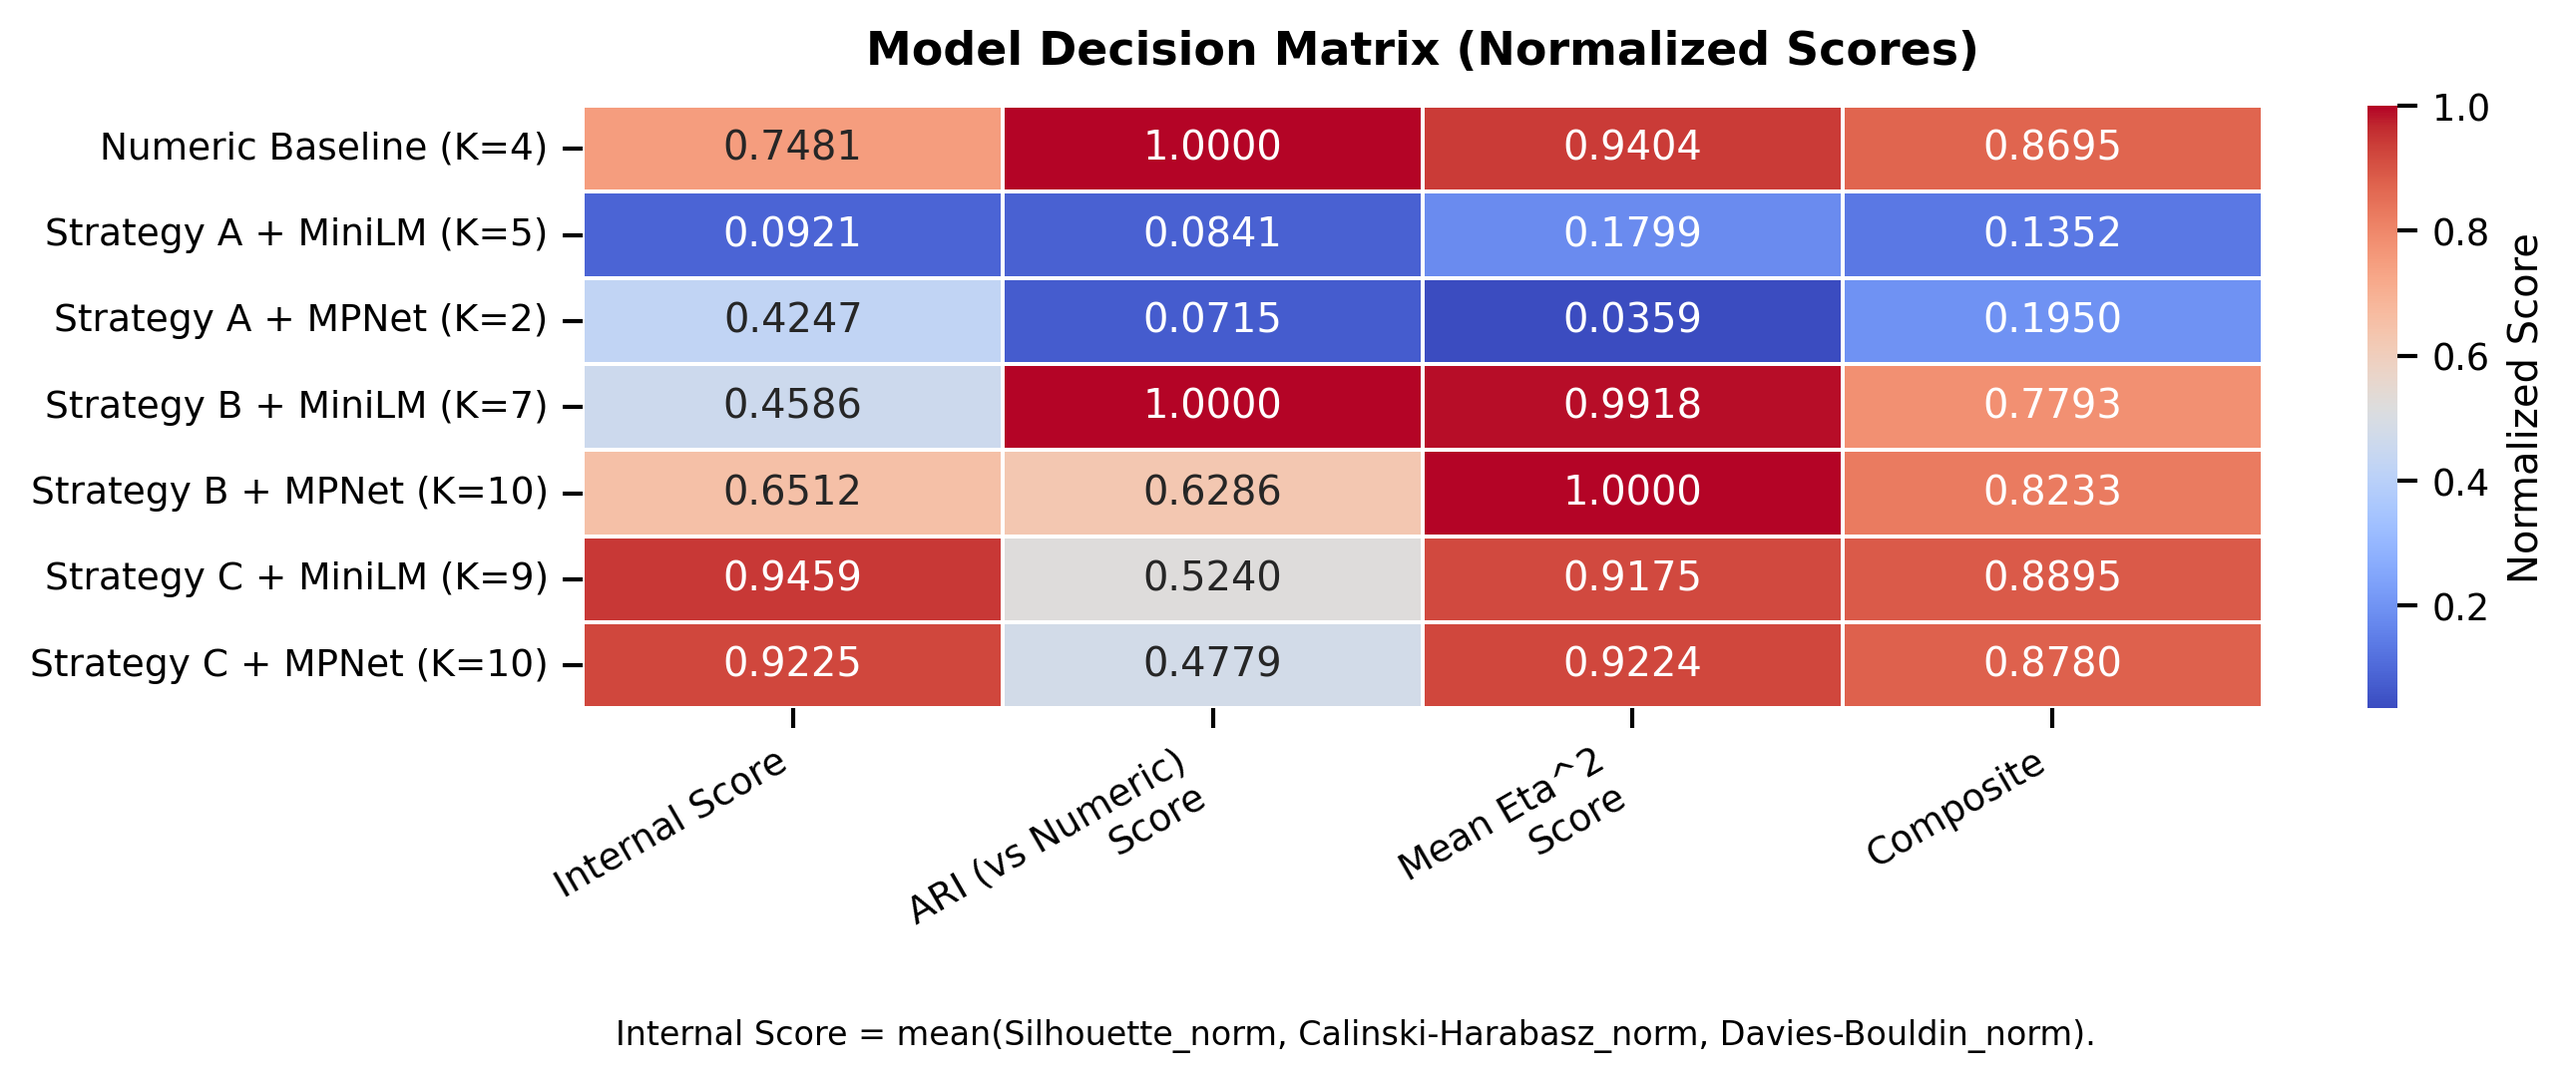
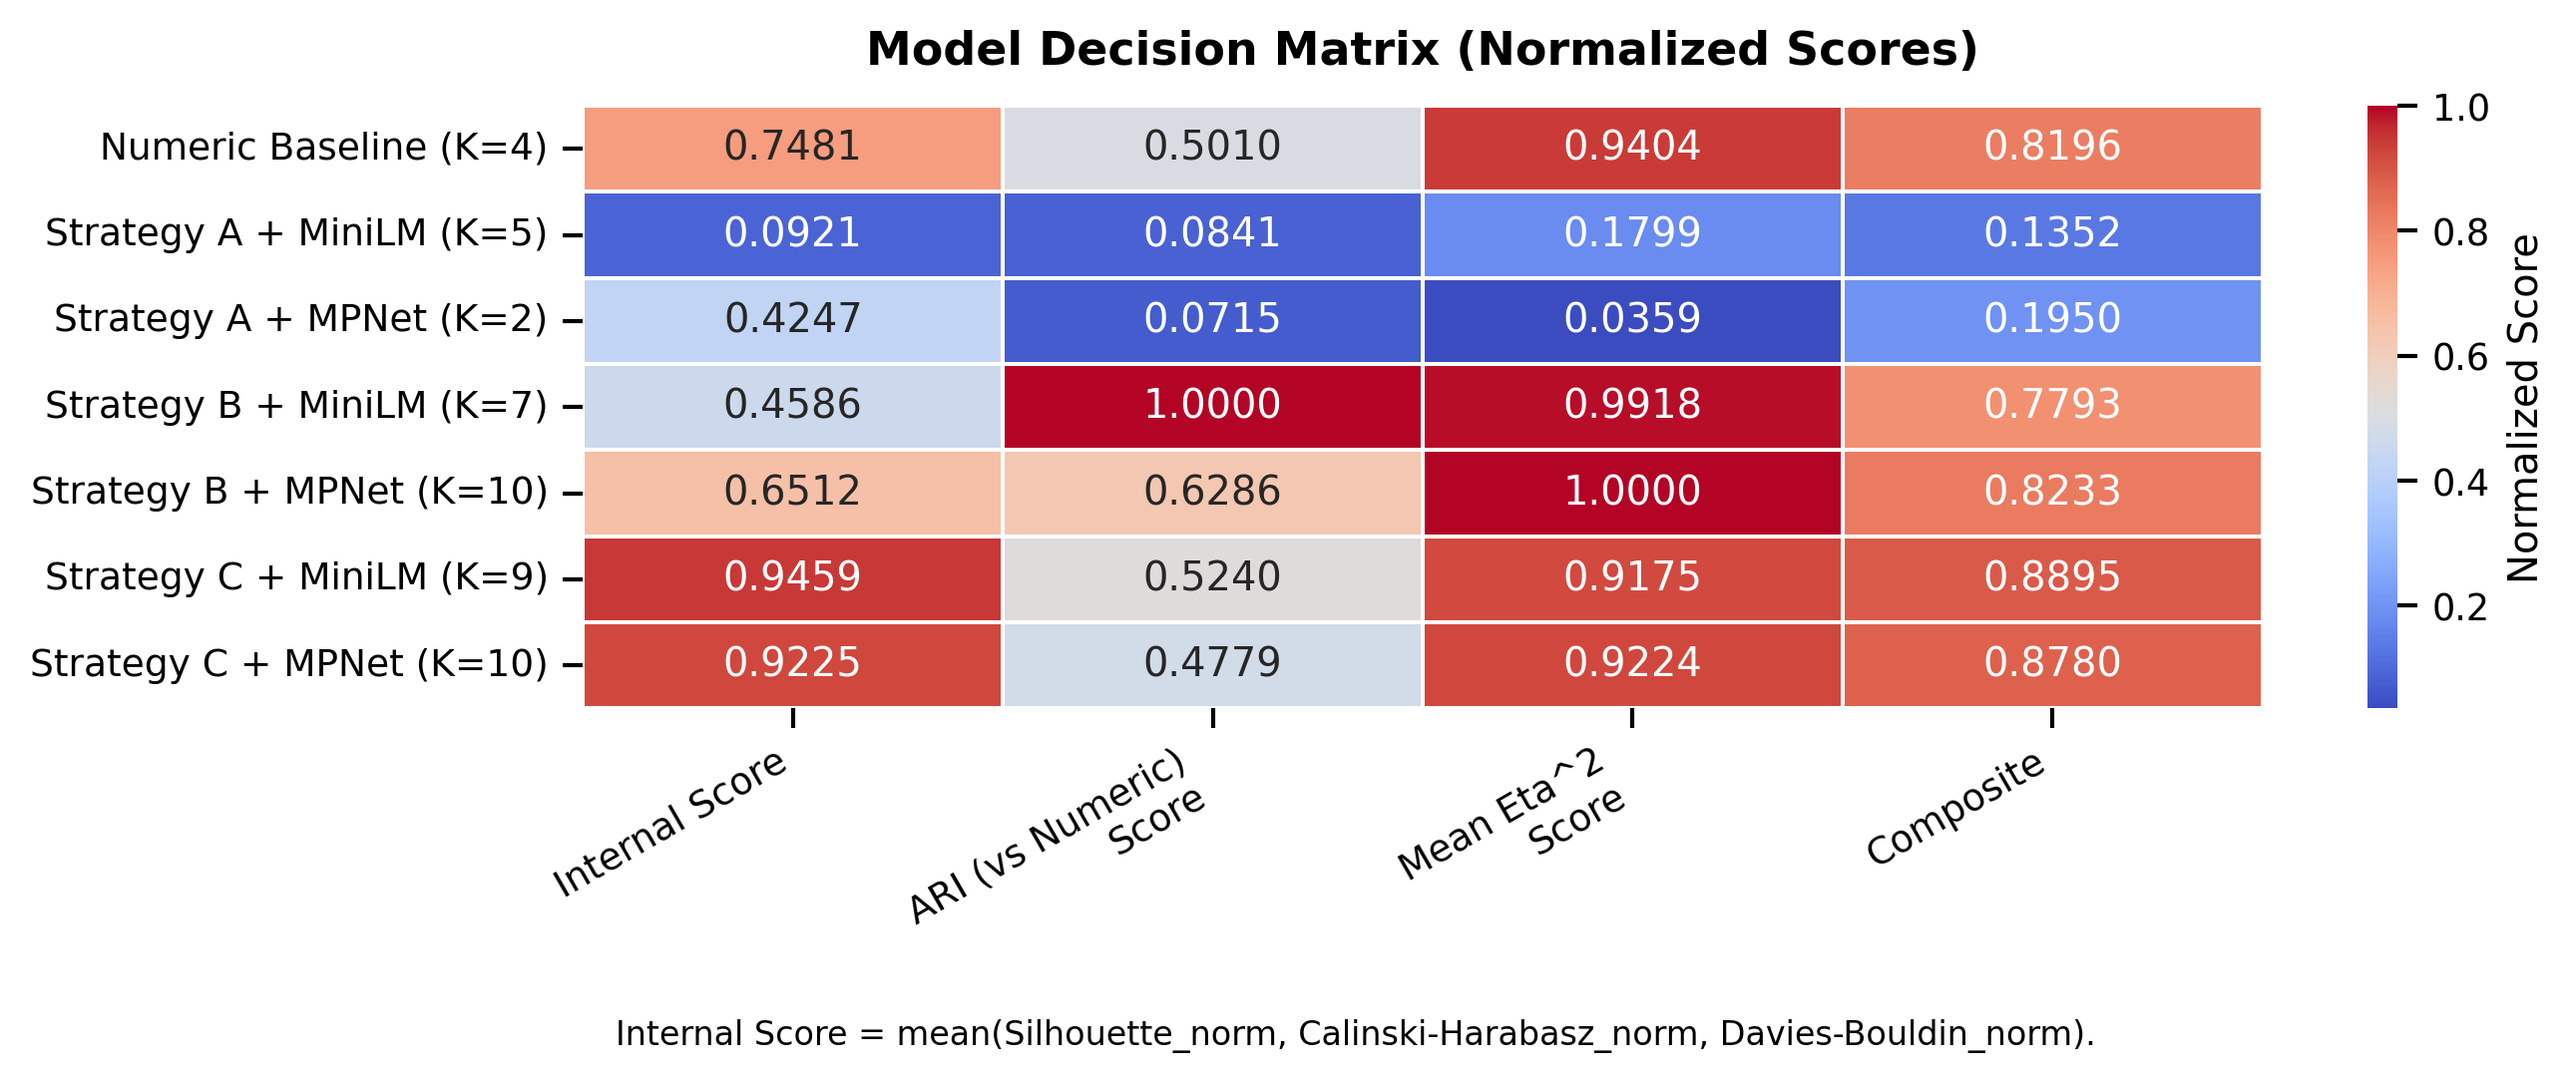
added changes

Changed region(s): [[0.3718, 0.0912, 0.5577, 0.1823], [0.7746, 0.1215, 0.8366, 0.1519]]

diff --git a/narrative_embedding_clustering/final result/plot_model_comparison_heatmap.py b/narrative_embedding_clustering/final result/plot_model_comparison_heatmap.py
@@ -30,6 +30,10 @@ def plot_heatmap(df):
         print("No data to plot.")
         return
 
+    strategy_c_mean_ari = df.loc[df["Template"].eq("Template A"), "ARI (vs Numeric)"].mean()
+    if pd.notna(strategy_c_mean_ari):
+        df.loc[df["Template"].astype(str).str.contains("Numeric", case=False, na=False), "ARI (vs Numeric)"] = float(strategy_c_mean_ari)
+
     # User Request: Rename "Template" to "Strategy"
     # The CSV has "Template", "Model", etc.
     # Convert to "Model Name" first
@@ -116,13 +120,6 @@ def plot_heatmap(df):
     df_norm["Composite"] = (0.5 * df_norm["Eta_Norm"]) + \
                            (0.4 * df_norm["Internal Score"]) + \
                            (0.1 * df_norm["ARI_Norm"])
-
-    # Optional: compute baseline composite (ARI is 1.0 by definition for the reference clustering)
-    if is_numeric_baseline.any():
-        df_norm.loc[is_numeric_baseline, "ARI_Norm"] = 1.0
-        df_norm.loc[is_numeric_baseline, "Composite"] = (0.5 * df_norm.loc[is_numeric_baseline, "Eta_Norm"]) + \
-                                                        (0.4 * df_norm.loc[is_numeric_baseline, "Internal Score"]) + \
-                                                        (0.1 * df_norm.loc[is_numeric_baseline, "ARI_Norm"])
     
     # Select columns to plot
     cols_to_plot = [

diff --git a/narrative_embedding_clustering/final result/plot_final_table_heatmap.py b/narrative_embedding_clustering/final result/plot_final_table_heatmap.py
@@ -32,6 +32,10 @@ def main():
 
     df = pd.read_csv(INPUT_FILE)
 
+    strategy_c_mean_ari = df.loc[df["Template"].eq("Template A"), "ARI (vs Numeric)"].mean()
+    if pd.notna(strategy_c_mean_ari):
+        df.loc[df["Template"].astype(str).str.contains("Numeric", case=False, na=False), "ARI (vs Numeric)"] = float(strategy_c_mean_ari)
+
     def map_template_to_strategy(template: str) -> str:
         if template == "Template A":
             return "Strategy C"
@@ -99,8 +103,6 @@ def main():
                 color_df[col] = df[col] / ari_max
             else:
                 color_df[col] = 0.0
-            # Ensure Numeric Baseline shows 1.0
-            color_df.loc[is_numeric_baseline, col] = 1.0
         else:
             color_df[col] = normalize_column(annot_df[col], invert=invert)
 
@@ -126,7 +128,7 @@ def main():
     # Rotate x-axis labels
     plt.xticks(rotation=30, ha='right', fontsize=9)
     plt.yticks(rotation=0, fontsize=9)
-    
+
     plt.tight_layout(pad=0.5)
     OUTPUT_FILE.parent.mkdir(parents=True, exist_ok=True)
     plt.savefig(OUTPUT_FILE, dpi=300, bbox_inches='tight')
